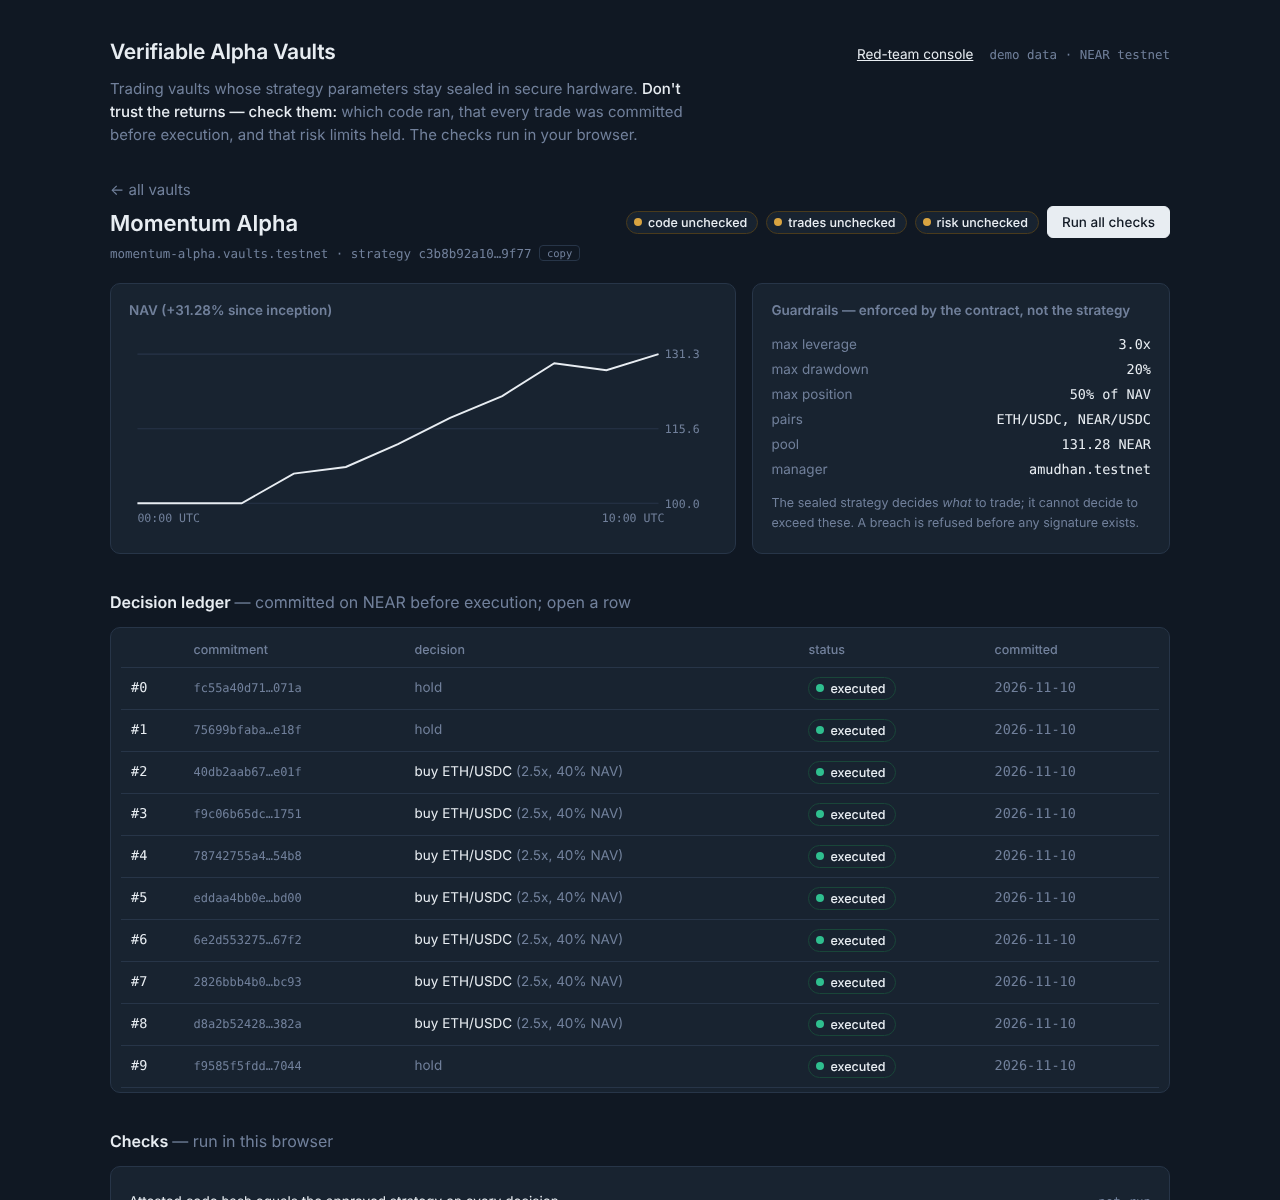
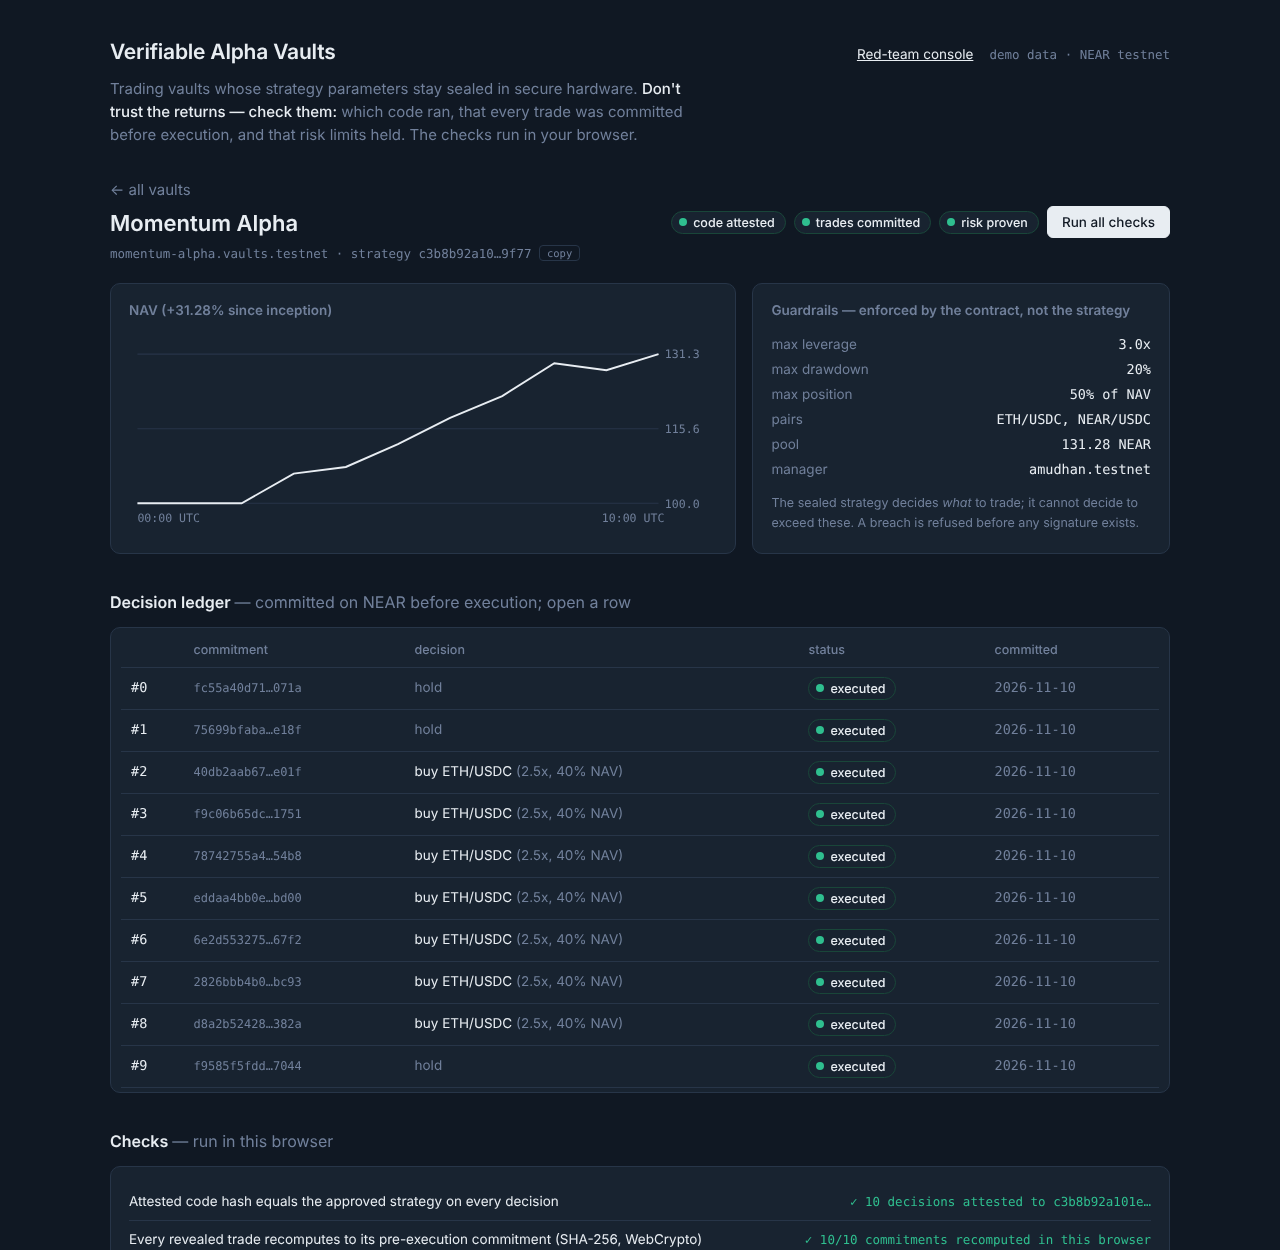
frontend: autocheck param; README hero screenshot (all checks green)

diff --git a/frontend/app.js b/frontend/app.js
@@ -363,4 +363,6 @@ async function route() {
   $("#page-h")?.focus({ preventScroll: true });
 }
 window.addEventListener("hashchange", route);
-route();
+route().then(() => {
+  if (qs.has("autocheck") && location.hash.startsWith("#/vault/")) setTimeout(onRunChecks, 300);
+});

diff --git a/README.md b/README.md
@@ -26,6 +26,8 @@ things independently verifiable:
 > additionally keeps epoch risk *metrics* (peak leverage, drawdown path)
 > private while proving they stayed within the public limits.
 
+![Vault page: all three verifications green after running the checks in-browser](docs/img/vault.png)
+
 ![Leaderboard: three vaults with verification chips](docs/img/leaderboard.png)
 
 ## Architecture
@@ -72,7 +74,9 @@ cd frontend && python3 -m http.server 8080
 ```
 
 (The demo fixtures' commitments and Bulletproofs are REAL — regenerate with
-`cargo run -p gen-fixtures`. WASM artifacts: `scripts/build-wasm.sh`.)
+`cargo run -p gen-fixtures`. The browser verifier wasm in `frontend/pkg/` is
+built and committed by CI; rebuild anything with `scripts/build-wasm.sh`.
+Add `?autocheck` to the URL to run the checks on page load.)
 
 The Rust suite runs the full pipeline end-to-end
 (`contracts/vault/tests/pipeline.rs`) and the three **"try to cheat"**
